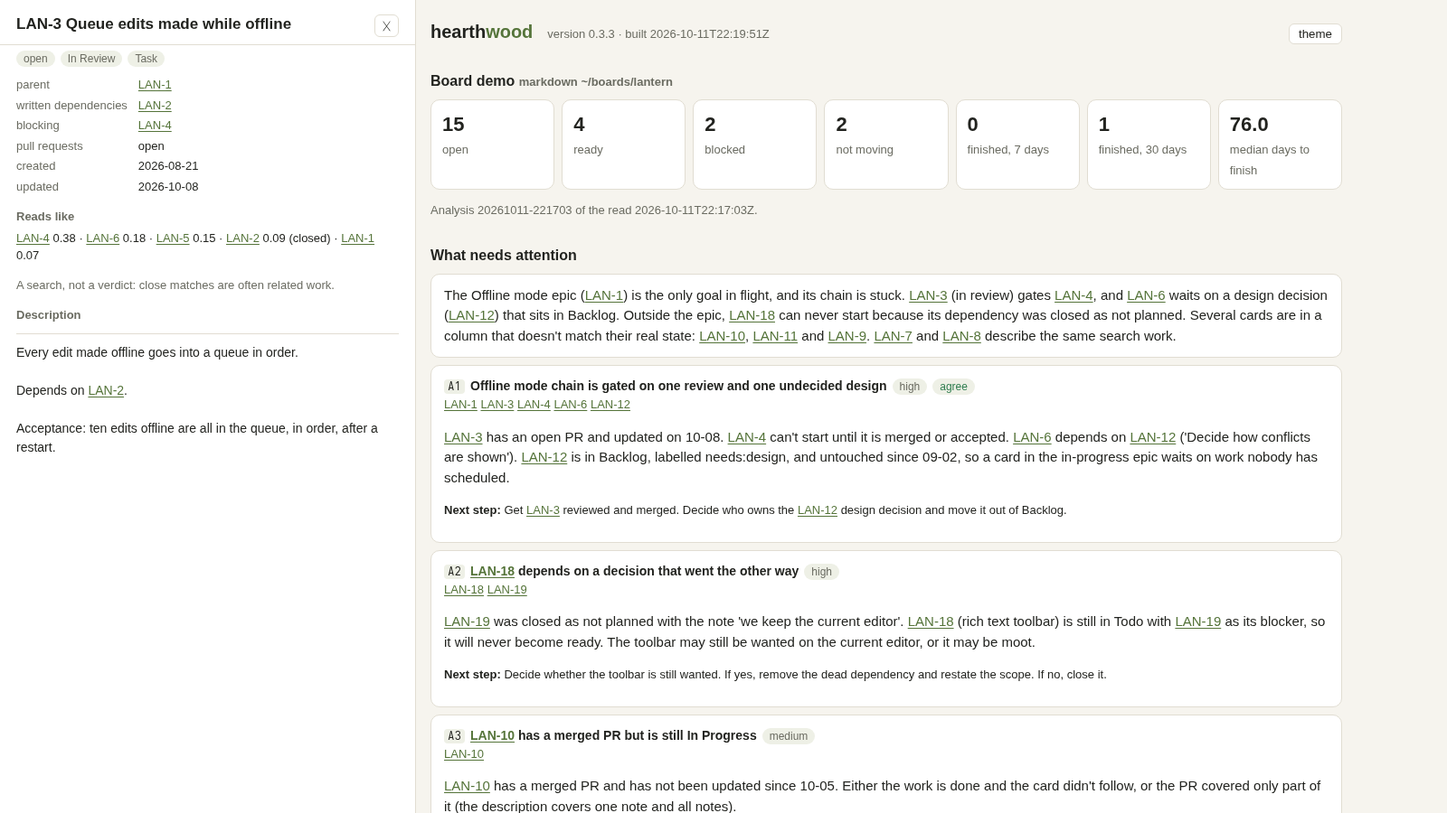
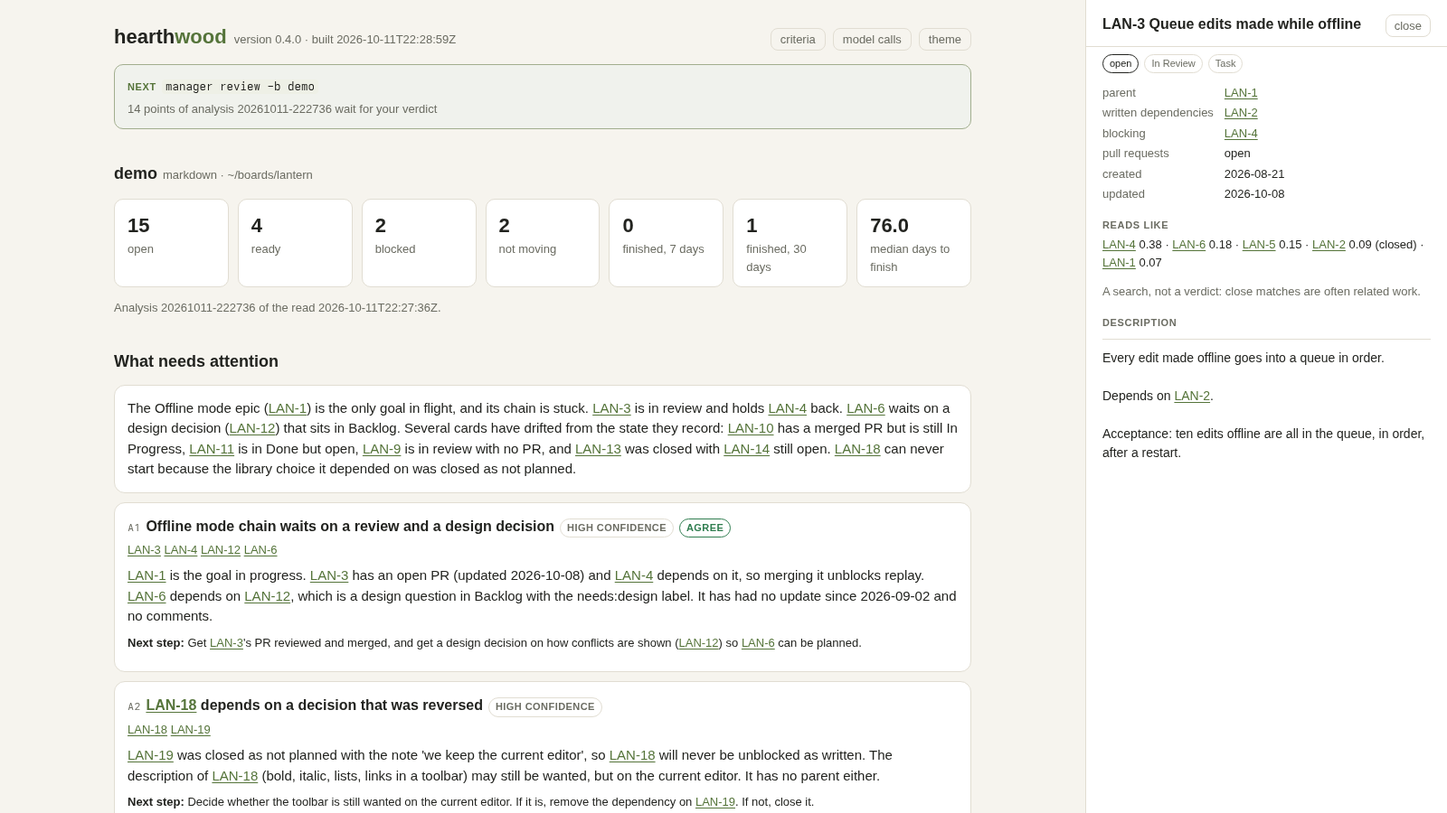
hearthwood 0.4.0: the page in hearthwork's style: badges, NEXT, the card panel on the right

diff --git a/src/hearthwood/worklog.py b/src/hearthwood/worklog.py
@@ -12,44 +12,58 @@ import html
 import json
 import re
 
-from . import __version__, criteria, home, reading
+from . import __version__, criteria, guide, home, reading
 
 CSS = """
 :root{--bg:#f6f4ee;--panel:#fff;--ink:#22231f;--mute:#6b6c62;--line:#e1ddd2;--green:#2f7d4f;--amber:#b47b10;--red:#b8412d;--accent:#55743a;--chip:#eef0e6}
 @media (prefers-color-scheme:dark){:root:not([data-theme=light]){--bg:#151613;--panel:#1e201b;--ink:#e9e8e0;--mute:#9a9b8f;--line:#33352e;--green:#58b07c;--amber:#d9a441;--red:#e0654e;--accent:#93b76c;--chip:#2a2d25}}
 :root[data-theme=dark]{--bg:#151613;--panel:#1e201b;--ink:#e9e8e0;--mute:#9a9b8f;--line:#33352e;--green:#58b07c;--amber:#d9a441;--red:#e0654e;--accent:#93b76c;--chip:#2a2d25}
-*{box-sizing:border-box}body{margin:0;background:var(--bg);color:var(--ink);font:15px/1.5 system-ui,-apple-system,"Segoe UI",sans-serif}
-main{max-width:1040px;margin:0 auto;padding:20px 16px 60px;transition:margin-left .18s ease}
-header{display:flex;flex-wrap:wrap;align-items:baseline;gap:8px 16px;margin-bottom:12px}
-h1{font-size:20px;margin:0}h1 span{color:var(--accent)}h2{font-size:16px;margin:28px 0 8px}h3{font-size:14px;margin:0}
+*{box-sizing:border-box}body{margin:0;background:var(--bg);color:var(--ink);font:15px/1.5 system-ui,-apple-system,"Segoe UI",sans-serif;transition:padding-right .18s ease}
+main{max-width:980px;margin:0 auto;padding:24px 16px 64px}
+.top{display:flex;justify-content:space-between;align-items:baseline;gap:12px;flex-wrap:wrap;margin-bottom:6px}
+h1{font-size:22px;margin:0}h1 span{color:var(--accent)}h1 small{color:var(--mute);font-weight:400;font-size:13px;margin-left:8px}
+h2{font-size:18px;margin:36px 0 12px}h2 .where{color:var(--mute);font-weight:400;font-size:13px;margin-left:6px;word-break:break-all}
+h3{margin:0;font-size:16px}
 .mute{color:var(--mute)}.small{font-size:13px}
-button.theme{margin-left:auto;background:var(--panel);color:var(--ink);border:1px solid var(--line);border-radius:6px;padding:3px 10px;cursor:pointer}
-.tiles{display:grid;grid-template-columns:repeat(auto-fit,minmax(130px,1fr));gap:8px}
-.tile{background:var(--panel);border:1px solid var(--line);border-radius:10px;padding:10px 12px}
-.tile b{display:block;font-size:22px;font-variant-numeric:tabular-nums}
-.card{background:var(--panel);border:1px solid var(--line);border-radius:10px;padding:12px 14px;margin:8px 0}
+.tools{display:flex;gap:8px;flex-wrap:wrap}
+button.theme,a.theme{background:none;border:1px solid var(--line);color:var(--mute);border-radius:8px;padding:4px 10px;cursor:pointer;font:13px system-ui,sans-serif;text-decoration:none;line-height:normal}
+button.theme:hover,a.theme:hover{color:var(--ink);border-color:var(--mute)}
+.nextstep{background:color-mix(in srgb,var(--accent) 9%,var(--panel));border:1px solid color-mix(in srgb,var(--accent) 45%,var(--line));border-radius:10px;padding:12px 14px;margin:14px 0}
+.nextstep .hint{color:var(--mute);font-size:13px;margin-top:4px}
+.nlabel{font-size:11px;font-weight:700;text-transform:uppercase;letter-spacing:.06em;color:var(--accent);margin-right:6px}
+.tiles{display:grid;grid-template-columns:repeat(auto-fit,minmax(110px,1fr));gap:10px;margin:14px 0 8px}
+.tile{background:var(--panel);border:1px solid var(--line);border-radius:10px;padding:12px 14px;color:var(--mute);font-size:13px}
+.tile b{display:block;color:var(--ink);font-size:22px;font-weight:600;font-variant-numeric:tabular-nums}
+.card{background:var(--panel);border:1px solid var(--line);border-radius:12px;padding:14px;margin:10px 0}
+.card p{margin:8px 0}.card h3{display:inline}
 .row{display:flex;flex-wrap:wrap;gap:6px;align-items:baseline}
-.chip{display:inline-block;background:var(--chip);border-radius:999px;padding:0 8px;font-size:12px;color:var(--mute)}
-.sev-high{color:var(--red)}.sev-medium{color:var(--amber)}.sev-low{color:var(--mute)}.sev-info{color:var(--green)}
-.v-agree{color:var(--green)}.v-disagree{color:var(--red)}
+.badge{display:inline-block;font-size:11px;font-weight:600;text-transform:uppercase;letter-spacing:.04em;padding:2px 7px;border-radius:99px;border:1px solid var(--line);color:var(--mute);line-height:1.4;white-space:nowrap}
+.badge.high,.badge.disagree,.badge.rejected{color:var(--red);border-color:var(--red)}
+.badge.medium{color:var(--amber);border-color:var(--amber)}
+.badge.info,.badge.agree,.badge.approved{color:var(--green);border-color:var(--green)}
+.chip{display:inline-block;font-size:11px;padding:1px 7px;border-radius:99px;border:1px solid var(--line);color:var(--mute);white-space:nowrap}
+.chip.closed{color:var(--green);border-color:var(--green)}.chip.open{color:var(--ink);border-color:var(--ink)}
+.keys{font-size:13px;margin-top:4px}
 a{color:var(--accent)}code{font:12.5px ui-monospace,SFMono-Regular,Menlo,monospace;background:var(--chip);padding:0 4px;border-radius:4px}
+.id{font:12px ui-monospace,SFMono-Regular,Menlo,monospace;color:var(--mute)}
 pre{white-space:pre-wrap;word-break:break-word;background:var(--panel);border:1px solid var(--line);border-radius:8px;padding:10px;font:12.5px/1.45 ui-monospace,SFMono-Regular,Menlo,monospace}
-details>summary{cursor:pointer;list-style:none;display:flex;gap:8px;align-items:baseline}details>summary::-webkit-details-marker{display:none}details>summary::before{content:'▸';color:var(--mute);flex:none}details[open]>summary::before{content:'▾'}
+details>summary{cursor:pointer;list-style:none;display:flex;gap:8px;align-items:baseline;flex-wrap:wrap}details>summary::-webkit-details-marker{display:none}details>summary::before{content:'▸';color:var(--mute);flex:none}details[open]>summary::before{content:'▾'}
 table{border-collapse:collapse;width:100%;font-size:13px}td,th{text-align:left;padding:4px 6px;border-bottom:1px solid var(--line)}
 button.key{font:inherit;color:var(--accent);background:none;border:0;padding:0;cursor:pointer;text-decoration:underline;text-underline-offset:2px}
 button.key:hover,button.key:focus-visible{color:var(--ink)}
-#panel{position:fixed;top:0;left:0;bottom:0;width:min(460px,100vw);background:var(--panel);border-right:1px solid var(--line);
-box-shadow:4px 0 24px rgba(0,0,0,.18);transform:translateX(-105%);transition:transform .18s ease;overflow-y:auto;z-index:10;padding:16px 18px 40px}
+#panel{position:fixed;top:0;right:0;bottom:0;width:min(400px,100vw);background:var(--panel);border-left:1px solid var(--line);
+box-shadow:-4px 0 24px rgba(0,0,0,.18);transform:translateX(105%);transition:transform .18s ease;overflow-y:auto;z-index:10;padding:16px 18px 40px}
 #panel.open{transform:none}
-#panel header{display:flex;align-items:flex-start;gap:10px;position:sticky;top:-16px;margin:-16px -18px 6px;padding:16px 18px 8px;background:var(--panel);border-bottom:1px solid var(--line);z-index:1}
-#panel h2{margin:0;font-size:17px;line-height:1.35;flex:1}
-#panel .close{background:none;border:1px solid var(--line);border-radius:6px;color:var(--ink);cursor:pointer;font-size:15px;line-height:1;padding:4px 8px}
-#panel dl{display:grid;grid-template-columns:max-content 1fr;gap:3px 12px;font-size:13px;margin:10px 0}
+#panel header{display:flex;align-items:flex-start;gap:10px;position:sticky;top:-16px;margin:-16px -18px 8px;padding:16px 18px 10px;background:var(--panel);border-bottom:1px solid var(--line);z-index:1}
+#panel h2{margin:0;font-size:16px;line-height:1.35;flex:1}
+#panel .close{background:none;border:1px solid var(--line);border-radius:8px;color:var(--mute);cursor:pointer;font-size:13px;line-height:1;padding:5px 9px}
+#panel .close:hover{color:var(--ink);border-color:var(--mute)}
+#panel dl{display:grid;grid-template-columns:max-content 1fr;gap:3px 12px;font-size:13px;margin:12px 0}
 #panel dt{color:var(--mute)}#panel dd{margin:0;overflow-wrap:anywhere}
 #panel .desc{white-space:pre-wrap;overflow-wrap:anywhere;font-size:14px;border-top:1px solid var(--line);padding-top:10px;margin-top:10px}
-#panel h3{font-size:13px;color:var(--mute);margin:14px 0 4px;font-weight:600}
-@media (min-width:1100px){body.panel-open main{margin-left:max(460px,calc((100% - 1040px)/2));margin-right:auto}body.panel-open #panel{box-shadow:none}}
-@media (prefers-reduced-motion:reduce){#panel,main{transition:none}}
+#panel h3{font-size:11px;font-weight:700;text-transform:uppercase;letter-spacing:.06em;color:var(--mute);margin:16px 0 4px}
+@media (min-width:1100px){body.panel-open{padding-right:400px}body.panel-open #panel{box-shadow:none}}
+@media (prefers-reduced-motion:reduce){#panel,body{transition:none}}
 """
 
 E = html.escape
@@ -80,8 +94,8 @@ function parse(){var h=location.hash.slice(1);if(h.indexOf('card=')!==0)return n
   return b&&card(b,k)?[b,k]:null}
 function show(b,k){var c=card(b,k);if(!c)return;P.textContent='';P.dataset.board=b;
   var hd=el('header');var h=el('h2',null,k+' '+(c.title||''));h.id='panel-title';hd.appendChild(h);
-  var x=el('button','close','✕');x.type='button';x.setAttribute('aria-label','Close');x.onclick=close;hd.appendChild(x);P.appendChild(hd);
-  var chips=el('div','row');[state(c),c.column,c.kind].concat(c.labels||[]).forEach(function(v){if(v)chips.appendChild(el('span','chip',v))});P.appendChild(chips);
+  var x=el('button','close','close');x.type='button';x.setAttribute('aria-label','Close');x.onclick=close;hd.appendChild(x);P.appendChild(hd);
+  var chips=el('div','row');chips.appendChild(el('span','chip '+(c.state==='closed'?(c.close_reason==='completed'?'closed':''):'open'),state(c)));[c.column,c.kind].concat(c.labels||[]).forEach(function(v){if(v)chips.appendChild(el('span','chip',v))});P.appendChild(chips);
   if(c.stub){P.appendChild(el('p','mute small','The page carries in full only the cards it mentions; this card\'s description is not on it.'))}
   else{var dl=el('dl');
     row(dl,'parent',c.parent?key(b,c.parent):null);
@@ -187,7 +201,7 @@ def embed(obj):
 def board_section(h, b):
     snap = b.latest_snapshot()
     d = b.latest_analysis()
-    parts = [f"<h2>Board <span>{E(b.name)}</span> <span class='mute small'>{E(b.source)} {E(b.where)}</span></h2>"]
+    parts = [f"<h2>{E(b.name)}<span class=where>{E(b.source)} · {E(b.where)}</span></h2>"]
     if not snap:
         return parts + ["<p class=mute>Not read yet: <code>manager read</code>.</p>"]
     items = {i["key"]: i for i in json.loads(snap.read_text(encoding="utf-8"))["items"]}
@@ -217,17 +231,17 @@ def board_section(h, b):
         parts.append(f"<h2>What needs attention</h2><div class=card>{_prose(r.get('summary', ''), items, ref)}</div>")
         for n, a in enumerate(r.get("attention") or [], 1):
             v = verdicts.get(f"A{n}")
-            parts.append(f"<div class=card><div class=row><code>A{n}</code><h3>{_prose(a['title'], items, ref)}</h3>"
-                         f"<span class=chip>{E(a.get('confidence', ''))}</span>"
-                         + (f"<span class='chip v-{E(v['verdict'])}'>{E(v['verdict'])}</span>" if v else "")
-                         + f"</div><div class=small>{_keys(a.get('keys', []), items, ref)}</div><p>{_prose(a['why'], items, ref)}</p>"
+            parts.append(f"<div class=card><div class=row><span class=id>A{n}</span><h3>{_prose(a['title'], items, ref)}</h3>"
+                         + (f"<span class=badge>{E(a['confidence'])} confidence</span>" if a.get('confidence') else "")
+                         + (f"<span class='badge {E(v['verdict'])}'>{E(v['verdict'])}</span>" if v else "")
+                         + f"</div><div class=keys>{_keys(a.get('keys', []), items, ref)}</div><p>{_prose(a['why'], items, ref)}</p>"
                          f"<p class=small><b>Next step:</b> {_prose(a['next_step'], items, ref)}</p></div>")
         qs = r.get("questions") or []
         if qs:
             parts.append("<h2>Questions</h2>")
             for n, q in enumerate(qs, 1):
                 v = verdicts.get(f"Q{n}")
-                parts.append(f"<div class=card><div class=row><code>Q{n}</code><span class=chip>for {E(q.get('for', ''))}</span>"
+                parts.append(f"<div class=card><div class=row><span class=id>Q{n}</span><span class=badge>for {E(q.get('for', ''))}</span>"
                              f"{_prose(q['question'], items, ref)}</div>"
                              + (f"<p class=small><b>Answered:</b> {E(v.get('answer', ''))}</p>" if v else "") + "</div>")
         try:
@@ -237,8 +251,8 @@ def board_section(h, b):
         if props:
             parts.append("<h2>Proposals <span class='mute small'>nothing is written to the board; approving records your decision</span></h2>")
             for p in props:
-                parts.append(f"<div class=card><div class=row><code>{E(p['id'])}</code><span class=chip>{E(p['action'])}</span>"
-                             f"<span class=chip>{E(p.get('status', 'proposed'))}</span>{_keys(p.get('keys', []), items, ref)}</div>"
+                parts.append(f"<div class=card><div class=row><span class=id>{E(p['id'])}</span><span class=badge>{E(p['action'])}</span>"
+                             f"<span class='badge {E(p.get('status', 'proposed'))}'>{E(p.get('status', 'proposed'))}</span>{_keys(p.get('keys', []), items, ref)}</div>"
                              f"<p>{_prose(p['change'], items, ref)}</p><p class='mute small'>{_prose(p['why'], items, ref)}</p></div>")
     elif (d / "reading-broken.json").exists() or (d / "reading-failed.txt").exists():
         parts.append("<p class=mute>The reading did not complete for this analysis; the facts below stand alone.</p>")
@@ -246,16 +260,16 @@ def board_section(h, b):
         parts.append("<p class=mute>Facts only (no reading): <code>manager analyze</code> adds one.</p>")
     if facts["ready"]:
         parts.append(f"<h2>Ready to start <span class='mute small'>{len(facts['ready'])}</span></h2>"
-                     f"<div class=card small>{_keys(facts['ready'], items, ref)}</div>")
+                     f"<div class=card>{_keys(facts['ready'], items, ref)}</div>")
     parts.append("<h2>Findings</h2>")
     for f in facts["findings"]:
         if f["rule"] == "ready":
             continue
         v = verdicts.get(f["id"])
-        parts.append(f"<details class=card><summary><span class=row><code>{E(f['id'])}</code>"
-                     f"<span class='chip sev-{E(f['severity'])}'>{E(f['severity'])}</span><span>{_prose(f['title'], items, ref)}</span>"
-                     + (f"<span class='chip v-{E(v['verdict'])}'>{E(v['verdict'])}</span>" if v else "")
-                     + f"</span></summary><p>{_prose(f['says'], items, ref)}</p><div class=small>{_keys(f['keys'], items, ref)}</div>"
+        parts.append(f"<details class=card><summary><span class=row><span class='badge {E(f['severity'])}'>{E(f['severity'])}</span>"
+                     f"<span>{_prose(f['title'], items, ref)}</span><span class=id>{E(f['id'])}</span>"
+                     + (f"<span class='badge {E(v['verdict'])}'>{E(v['verdict'])}</span>" if v else "")
+                     + f"</span></summary><p>{_prose(f['says'], items, ref)}</p><div class=keys>{_keys(f['keys'], items, ref)}</div>"
                      + (f"<p class='mute small'>Your reason: {E(v['why'])}</p>" if v and v.get("why") else "")
                      + "</details>")
     people = bool(b.settings["rules"].get("people"))
@@ -266,9 +280,12 @@ def board_section(h, b):
 
 def build(h=None):
     h = h or home.home_dir()
-    body = [f"<header><h1>hearth<span>wood</span></h1><span class='mute small'>version {E(__version__)} · built {E(home.now_iso())}</span>"
+    cmd, why = guide.next_step(h)
+    body = [f"<div class=top><h1>hearth<span>wood</span><small>version {E(__version__)} · built {E(home.now_iso())}</small></h1>"
+            "<span class=tools><a class=theme href=#criteria>criteria</a><a class=theme href=#calls>model calls</a>"
             "<button class=theme onclick=\"var r=document.documentElement,d=r.dataset.theme==='dark'||(!r.dataset.theme&&"
-            "matchMedia('(prefers-color-scheme: dark)').matches);r.dataset.theme=d?'light':'dark'\">theme</button></header>"]
+            "matchMedia('(prefers-color-scheme: dark)').matches);r.dataset.theme=d?'light':'dark'\">theme</button></span></div>",
+            f"<div class=nextstep><span class=nlabel>next</span><code>{E(cmd)}</code><div class=hint>{E(why)}</div></div>"]
     bs = home.boards(h)
     if not bs:
         body.append("<p>No board yet. <code>manager connect github</code> or <code>manager connect markdown &lt;folder&gt;</code>.</p>")
@@ -277,7 +294,7 @@ def build(h=None):
         body += board_section(h, b)
         body.append("</section>")
     crit = (h / "criteria.md").read_text(encoding="utf-8") if (h / "criteria.md").exists() else ""
-    body.append(f"<h2>Your criteria</h2><pre>{E(crit.strip() or '(none yet)')}</pre>")
+    body.append(f"<h2 id=criteria>Your criteria</h2><pre>{E(crit.strip() or '(none yet)')}</pre>")
     runs = home.read_jsonl(h / "runs.jsonl")[-10:]
     if runs:
         rows = "".join(f"<tr><td>{E(str(r.get('at', '')))}</td><td>{E(str(r.get('board', '')))}</td><td>{E(str(r.get('label', '')))}</td>"
@@ -285,7 +302,7 @@ def build(h=None):
                        f"<td>{'$%.2f' % r['cost_usd'] if isinstance(r.get('cost_usd'), (int, float)) else '-'}</td>"
                        f"<td>{E(str(r.get('error') or ''))}</td></tr>" for r in reversed(runs))
         total = sum(r.get("cost_usd") or 0 for r in home.read_jsonl(h / "runs.jsonl"))
-        body.append(f"<h2>Model calls <span class='mute small'>all time ${total:.2f}, API-equivalent</span></h2>"
+        body.append(f"<h2 id=calls>Model calls <span class='mute small'>all time ${total:.2f}, API-equivalent</span></h2>"
                     f"<table><tr><th>when</th><th>board</th><th>call</th><th>model</th><th>time</th><th>cost</th><th></th></tr>{rows}</table>")
     page = ("<!doctype html><html lang=en><head><meta charset=utf-8><meta name=viewport content='width=device-width,initial-scale=1'>"
             f"<title>hearthwood</title><style>{CSS}</style></head><body><main>" + "\n".join(body) + "</main>"

diff --git a/src/hearthwood/cli.py b/src/hearthwood/cli.py
@@ -9,7 +9,7 @@ import subprocess
 import sys
 import textwrap
 
-from . import __version__, criteria, credentials, facts, home, reading, search, snapshot, spirit, worklog
+from . import __version__, criteria, credentials, facts, guide, home, reading, search, snapshot, spirit, worklog
 
 
 def out(msg=""):
@@ -347,35 +347,8 @@ def cmd_log(args):
     return 0
 
 
-def next_step():
-    h = home.home_dir()
-    if not (h / "config.toml").exists():
-        return "manager init", "set up the home"
-    bs = home.boards(h)
-    if not bs:
-        return "manager connect github --board <name> --repo <owner/repo>", "connect a board (or `manager connect markdown <folder>`)"
-    for b in bs:
-        if b.source == "github" and b.settings.get("token", "credentials") == "credentials" \
-                and not credentials.token_path(b).exists():
-            return f"manager connect token --board {b.name}", f"board {b.name} has no token"
-        if not b.latest_snapshot():
-            return f"manager read -b {b.name}", f"board {b.name} has not been read"
-        d = b.latest_analysis()
-        if not d:
-            return f"manager analyze -b {b.name}", f"board {b.name} has not been analysed"
-        r = reading.load(d) or {}
-        fx = json.loads((d / "facts.json").read_text(encoding="utf-8"))
-        done = {v["target"] for v in criteria.all_verdicts(h, b.name) if v.get("analysis") == d.name or v.get("kind") == "finding"}
-        waiting = [f"A{n}" for n in range(1, len(r.get("attention") or []) + 1)] + \
-                  [f["id"] for f in fx["findings"] if f["severity"] in ("high", "medium")]
-        open_ = [t for t in waiting if t not in done]
-        if open_:
-            return f"manager review -b {b.name}", f"{len(open_)} points of analysis {d.name} wait for your verdict"
-    return "manager analyze --read", "everything is answered; read the board again when it has moved"
-
-
 def cmd_next(args):
-    cmd, why = next_step()
+    cmd, why = guide.next_step()
     out(f"next: {cmd}")
     out(f"  ({why})")
     return 0
@@ -404,7 +377,7 @@ def cmd_status(args):
     rules = sum(1 for line in (h / "criteria.md").read_text(encoding="utf-8").splitlines()
                 if line.startswith("- ")) if (h / "criteria.md").exists() else 0
     out(f"\nverdicts given: {n}; criteria lines: {rules}")
-    cmd, why = next_step()
+    cmd, why = guide.next_step()
     out(f"next: {cmd}  ({why})")
     return 0
 

diff --git a/src/hearthwood/guide.py b/src/hearthwood/guide.py
@@ -1,0 +1,32 @@
+"""What to do next: one command and why, read from the home. `manager next` prints it; the page shows it."""
+
+import json
+
+from . import credentials, criteria, home, reading
+
+
+def next_step(h=None):
+    h = h or home.home_dir()
+    if not (h / "config.toml").exists():
+        return "manager init", "set up the home"
+    bs = home.boards(h)
+    if not bs:
+        return "manager connect github --board <name> --repo <owner/repo>", "connect a board (or `manager connect markdown <folder>`)"
+    for b in bs:
+        if b.source == "github" and b.settings.get("token", "credentials") == "credentials" \
+                and not credentials.token_path(b).exists():
+            return f"manager connect token --board {b.name}", f"board {b.name} has no token"
+        if not b.latest_snapshot():
+            return f"manager read -b {b.name}", f"board {b.name} has not been read"
+        d = b.latest_analysis()
+        if not d:
+            return f"manager analyze -b {b.name}", f"board {b.name} has not been analysed"
+        r = reading.load(d) or {}
+        fx = json.loads((d / "facts.json").read_text(encoding="utf-8"))
+        done = {v["target"] for v in criteria.all_verdicts(h, b.name) if v.get("analysis") == d.name or v.get("kind") == "finding"}
+        waiting = [f"A{n}" for n in range(1, len(r.get("attention") or []) + 1)] + \
+                  [f["id"] for f in fx["findings"] if f["severity"] in ("high", "medium")]
+        open_ = [t for t in waiting if t not in done]
+        if open_:
+            return f"manager review -b {b.name}", f"{len(open_)} points of analysis {d.name} wait for your verdict"
+    return "manager analyze --read", "everything is answered; read the board again when it has moved"

diff --git a/tests/test_worklog.py b/tests/test_worklog.py
@@ -98,6 +98,16 @@ class Page(unittest.TestCase):
         worklog.build(self.t.h)
         self.assertEqual(embedded((self.t.h / "log.html").read_text())["demo"]["LAN-7"]["assignees"], ["sam"])
 
+    def test_the_page_says_what_to_do_next(self):
+        page = self.build()
+        self.assertIn("<span class=nlabel>next</span><code>manager review -b demo</code>", page)
+
+    def test_badges_say_severity(self):
+        page = self.build()
+        self.assertIn("<span class='badge high'>high</span>", page)
+        self.assertIn("<span class='badge medium'>medium</span>", page)
+        self.assertNotIn("chip sev-", page)
+
     def test_the_panel_builds_nodes_from_text_only(self):
         self.assertNotIn("innerHTML", worklog.JS)
         self.assertNotIn("insertAdjacentHTML", worklog.JS)

diff --git a/src/hearthwood/__init__.py b/src/hearthwood/__init__.py
@@ -1,3 +1,3 @@
 """hearthwood: read a project board, see what needs attention, and teach it how you judge."""
 
-__version__ = "0.3.3"
+__version__ = "0.4.0"

diff --git a/docs/how-it-works.md b/docs/how-it-works.md
@@ -162,11 +162,15 @@ they outrank everything else.
 `~/.hearthwood/log.html` is one self-contained file, rebuilt after every read, analysis and
 verdict. No server runs and no model writes it. It shows the numbers, the reading, the questions,
 the proposals and every finding.
+Its top line is the next step, the same one `manager next` prints. Badges say what kind of thing
+each line is: a finding's severity (HIGH, MEDIUM, LOW, INFO), your verdict (AGREE, DISAGREE), a
+proposal's state.
 
-**Every card number opens the card** in a panel on the left: its state, column, type and labels;
+**Every card number opens the card** in a panel on the right, 400 px wide: its state, column,
+type and labels;
 its parent, sub-items, dependencies and pull requests, each clickable in turn; its dates; the
 cards it reads most like; its description; and a link to the card in the tracker. On a screen
-1100 px wide or more the page moves to the right of the panel, so both can be read side by side; on
+1100 px wide or more the page makes room beside the panel, so both can be read side by side; on
 a narrower one the panel covers the page. ✕, Esc or the browser's Back button closes the panel, and
 so does a click outside it when it covers the page. Each open card has its own address
 (`log.html#card=LAN-7`, or `#card=<board>/<key>` when the home holds more than one board), so it

diff --git a/README.md b/README.md
@@ -13,7 +13,7 @@ approve or reject it, and it remembers which.
                                         └──── criteria.md ◄─────┴── verdicts ◄──┘
 ```
 
-![The page after one reading of the demo board, with card LAN-3 open in the side panel and the page beside it: the card's parent, dependency, the card it blocks, its pull request, the cards it reads most like and its description, where LAN-2 is a link. Beside it: the board's numbers and the points that need attention, one already agreed with](docs/screenshot.png)
+![The page after one reading of the demo board: the next step on top, the board's numbers, and the points that need attention with their badges, one already agreed with. On the right, card LAN-3 is open in its panel: parent, dependency, the card it blocks, its pull request, the cards it reads most like and its description, where LAN-2 is a link](docs/screenshot.png)
 
 It is the sister of [hearthwork](https://github.com/alexandr352/hearthwork), which runs
 development tickets. Hearthwood looks after the board those tickets live on.

diff --git a/CHANGELOG.md b/CHANGELOG.md
@@ -1,5 +1,16 @@
 # Changelog
 
+## 0.4.0 — 2026-10-11
+
+- **A new look for the page,** in the family of hearthwork's: outlined badges for severity
+  (HIGH, MEDIUM, LOW, INFO), verdicts (AGREE, DISAGREE) and proposal states; outlined chips for a
+  card's state, column and labels; quieter ids; the header's tools as a row of outlined buttons
+  (criteria, model calls, theme).
+- **NEXT** at the top of the page: the step `manager next` prints, and why.
+- **The card panel is on the right, 400 px wide.** On a wide screen the page makes room beside it;
+  on a narrow one it covers the page. Its close button says "close".
+- The numbers sit in one row beside the panel.
+
 ## 0.3.3 — 2026-10-11
 
 - **Card numbers in the page's sentences open the card.** The reading's summary, its points
